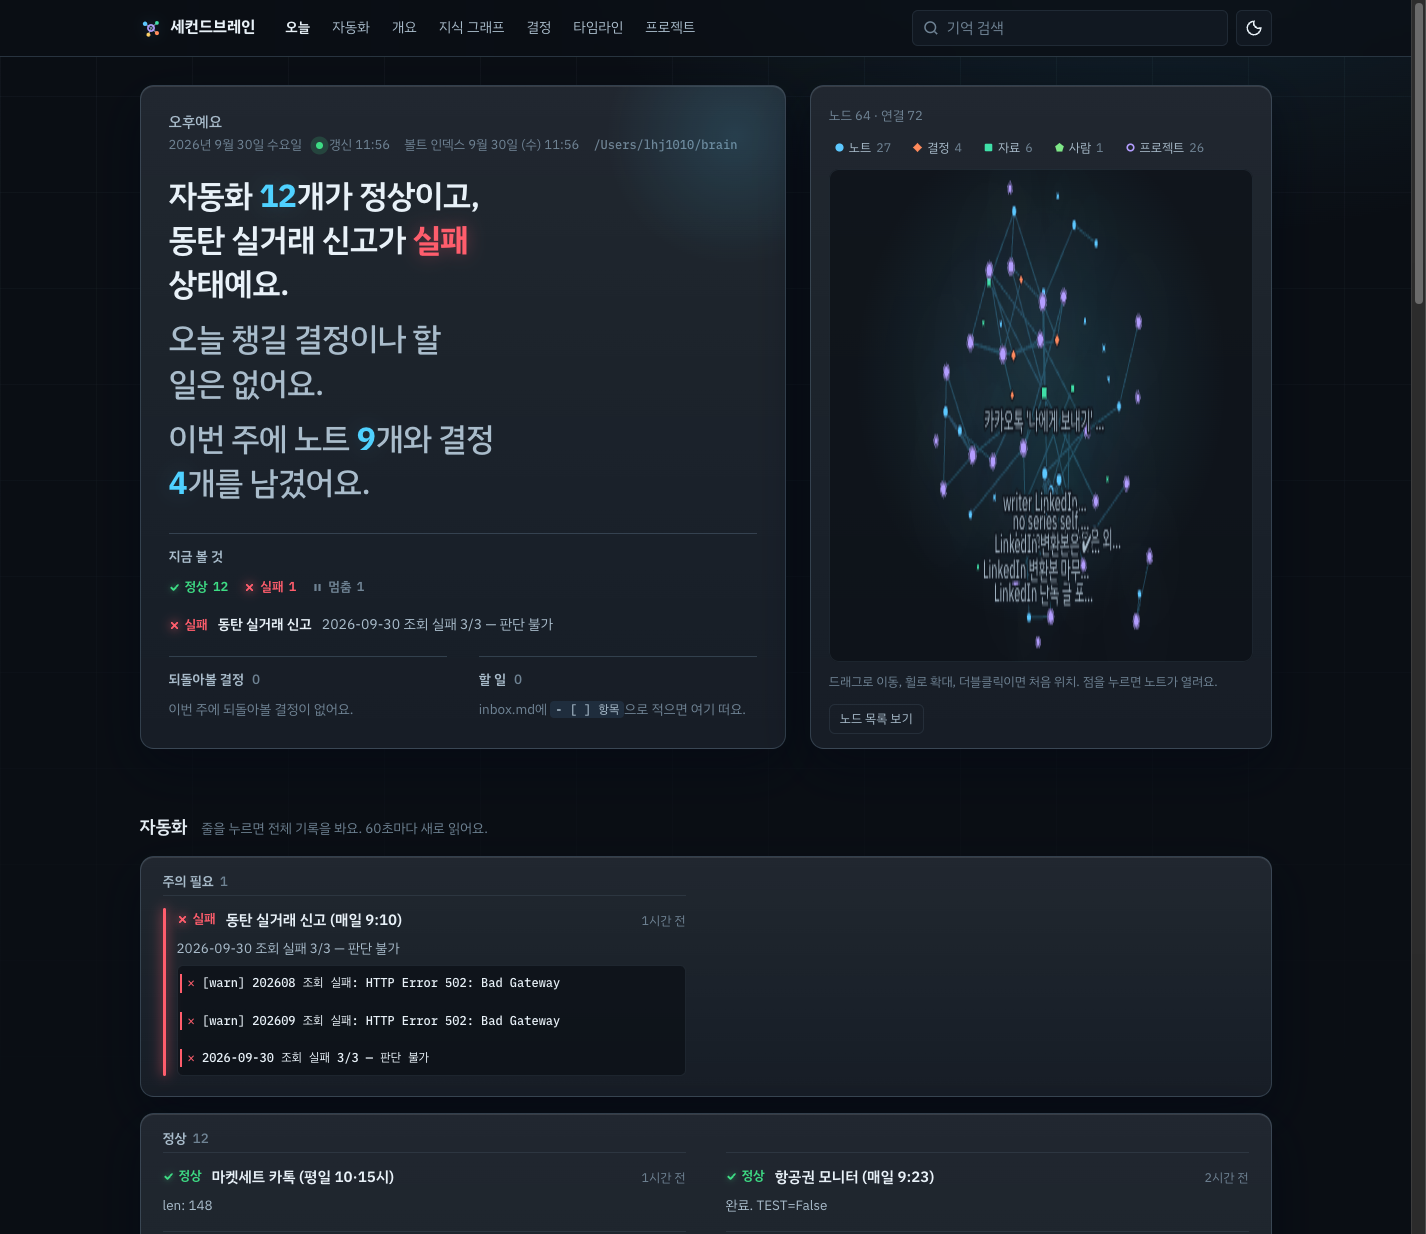
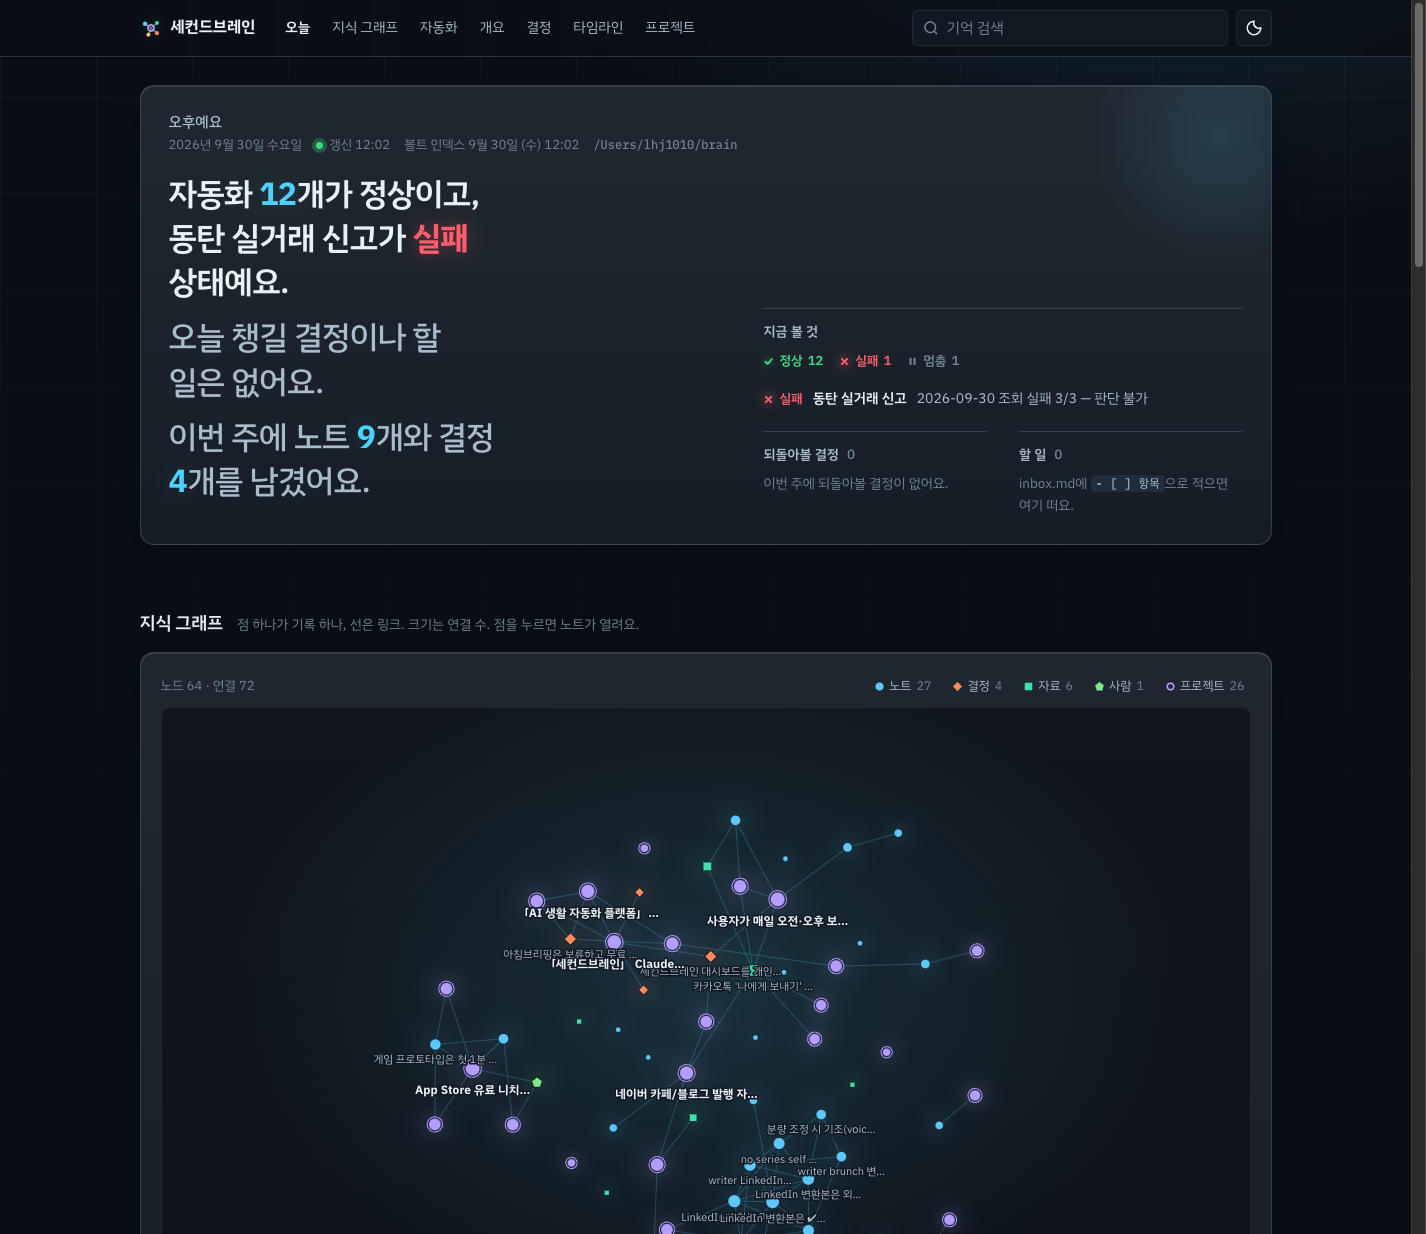
v0.5.1 지식 그래프를 전폭 패널로, 보고 패널 2열, 내비 순서 정렬

diff --git a/web/index.html b/web/index.html
@@ -99,8 +99,8 @@ body::after {
 .glass { background: var(--glass), var(--surface); border: 1px solid var(--rule-strong); border-radius: var(--rp); box-shadow: var(--glass-edge), var(--panel-shadow); backdrop-filter: blur(14px); }
 /* 첫 로드 한 번의 등장 시퀀스: 보고 → 그래프 → 자동화 → 나머지 */
 @keyframes rise { from { opacity: 0; transform: translateY(14px); } to { opacity: 1; transform: none; } }
-html.entering .hero-text, html.entering .hero-graph, html.entering #automation, html.entering #content > .section { animation: rise .7s cubic-bezier(.2, .7, .2, 1) both; }
-html.entering .hero-graph { animation-delay: .10s; } html.entering #automation { animation-delay: .22s; }
+html.entering .hero-text, html.entering .graph-section, html.entering #automation, html.entering #content > .section { animation: rise .7s cubic-bezier(.2, .7, .2, 1) both; }
+html.entering .graph-section { animation-delay: .10s; } html.entering #automation { animation-delay: .22s; }
 html.entering #content > .section:nth-child(1) { animation-delay: .34s; } html.entering #content > .section:nth-child(2) { animation-delay: .42s; }
 html.entering #content > .section:nth-child(3) { animation-delay: .50s; } html.entering #content > .section:nth-child(4) { animation-delay: .58s; }
 html { scroll-behavior: smooth; scroll-padding-top: 72px; }
@@ -160,8 +160,11 @@ h1, h2, h3 { text-wrap: balance; }
 
 /* ───────── 히어로: 비서의 보고 (7) + 살아 있는 지식 그래프 (5) ───────── */
 .main { padding: 28px 24px 96px; min-width: 0; }
-.hero { display: grid; grid-template-columns: minmax(0, 7fr) minmax(0, 5fr); gap: 20px 24px; align-items: stretch; }
-.hero-text { padding: 26px 28px 22px; }
+.hero { display: grid; grid-template-columns: minmax(0, 1fr); }
+.hero-text { padding: 26px 28px 22px; display: grid; grid-template-columns: minmax(0, 1.15fr) minmax(0, 1fr); gap: 8px 44px; align-items: start; }
+.hero-text .header { grid-column: 1 / -1; margin-bottom: 8px; }
+.hero-text .report { margin-bottom: 8px; }
+.hero-text .today-grid { align-self: start; margin-top: 10px; }
 .hero-text.glass { position: relative; overflow: hidden; }
 .hero-text.glass::after { content: ""; position: absolute; right: -80px; top: -80px; width: 260px; height: 260px; border-radius: 50%; background: radial-gradient(circle, var(--accent-soft), transparent 70%); pointer-events: none; }
 .header { margin-bottom: 18px; }
@@ -224,9 +227,9 @@ h1, h2, h3 { text-wrap: balance; }
 .chip[aria-pressed="false"] svg { opacity: .35; }
 .chip .c { color: var(--muted); }
 .chip svg { width: 9px; height: 9px; flex: none; }
-.hero-graph .graph-card { padding: 16px 18px 14px; height: 100%; display: flex; flex-direction: column; }
-.hero-graph .graph-wrap { flex: 1; }
-.graph-wrap { position: relative; height: clamp(340px, 46vh, 480px); border-radius: 10px; background: radial-gradient(ellipse at 50% 42%, var(--accent-soft), transparent 62%), color-mix(in srgb, var(--bg) 70%, transparent); box-shadow: inset 0 0 0 1px var(--rule); overflow: hidden; }
+.graph-section .graph-card { padding: 16px 20px 14px; }
+.graph-section { margin-top: 20px; }
+.graph-wrap { position: relative; height: clamp(440px, 62vh, 680px); border-radius: 10px; background: radial-gradient(ellipse at 50% 42%, var(--accent-soft), transparent 62%), color-mix(in srgb, var(--bg) 70%, transparent); box-shadow: inset 0 0 0 1px var(--rule); overflow: hidden; }
 #graph { display: block; width: 100%; height: 100%; touch-action: none; cursor: grab; border-radius: 10px; }
 #graph.dragging { cursor: grabbing; }
 #graph.hover { cursor: pointer; }
@@ -417,7 +420,7 @@ h1, h2, h3 { text-wrap: balance; }
 
 /* ───────── 반응형 ───────── */
 @media (max-width: 1000px) {
-  .hero { grid-template-columns: minmax(0, 1fr); }
+  .hero-text { grid-template-columns: minmax(0, 1fr); }
   .tiles { grid-template-columns: repeat(2, minmax(0, 1fr)); }
   .board { grid-template-columns: minmax(0, 1fr); gap: 24px; }
   .wgrid, .wgrid.attention { grid-template-columns: minmax(0, 1fr); }
@@ -436,7 +439,7 @@ h1, h2, h3 { text-wrap: balance; }
   .today-grid { grid-template-columns: minmax(0, 1fr); }
   .report { max-width: none; }
   .report p { font-size: 21px; }
-  .graph-wrap { height: 60vh; min-height: 320px; }
+  .graph-wrap { height: 60vh; min-height: 360px; }
   .tiles { grid-template-columns: minmax(0, 1fr); }
   .tile-value { font-size: 32px; }
   .tl-day { grid-template-columns: minmax(0, 1fr); gap: 6px; }
@@ -473,9 +476,9 @@ h1, h2, h3 { text-wrap: balance; }
     <nav class="nav" aria-label="섹션 이동">
       <ul>
       <li><a href="#today-section" class="active"><span class="dot"></span>오늘</a></li>
+      <li><a href="#graph-section"><span class="dot"></span>지식 그래프</a></li>
       <li><a href="#automation"><span class="dot"></span>자동화</a></li>
       <li><a href="#overview"><span class="dot"></span>개요</a></li>
-      <li><a href="#graph-section"><span class="dot"></span>지식 그래프</a></li>
       <li><a href="#decisions"><span class="dot"></span>결정</a></li>
       <li><a href="#timeline"><span class="dot"></span>타임라인</a></li>
       <li><a href="#projects"><span class="dot"></span>프로젝트</a></li>
@@ -507,24 +510,25 @@ h1, h2, h3 { text-wrap: balance; }
       <div class="report" id="report" aria-live="polite"><p class="loading">오늘 보고를 준비하고 있어요.</p></div>
       <div class="today-grid" id="todayGrid"><div class="loading">오늘 불러오는 중</div></div>
     </div>
-    <section class="hero-graph" id="graph-section" aria-labelledby="graph-h">
-      <h2 id="graph-h" class="sr-only">지식 그래프</h2>
-      <div class="graph-card glass">
-        <div class="graph-top">
-          <div class="graph-stats" id="graphStats">그래프 준비 중</div>
-          <div class="chips" id="chips" role="group" aria-label="타입 필터"></div>
-        </div>
-        <div class="graph-wrap" id="graphWrap">
-          <canvas id="graph" tabindex="0" role="img" aria-label="지식 그래프. 점 하나가 기록 하나, 선은 링크. 노드 목록 버튼으로 텍스트 목록을 볼 수 있어요." aria-describedby="graphTip"></canvas>
-          <div class="tooltip" id="graphTip" role="tooltip"></div>
-        </div>
-        <div class="graph-bottom">
-          <span>드래그로 이동, 휠로 확대, 더블클릭이면 처음 위치. 점을 누르면 노트가 열려요.</span>
-          <button class="text-btn" id="listBtn" type="button" aria-expanded="false" aria-controls="nodeList">노드 목록 보기</button>
-        </div>
-        <ul class="node-list" id="nodeList" hidden aria-label="그래프 노드 목록"></ul>
+  </section>
+
+  <section class="section graph-section" id="graph-section" aria-labelledby="graph-h">
+    <div class="section-head"><h2 id="graph-h">지식 그래프</h2><p>점 하나가 기록 하나, 선은 링크. 크기는 연결 수. 점을 누르면 노트가 열려요.</p></div>
+    <div class="graph-card glass">
+      <div class="graph-top">
+        <div class="graph-stats" id="graphStats">그래프 준비 중</div>
+        <div class="chips" id="chips" role="group" aria-label="타입 필터"></div>
       </div>
-    </section>
+      <div class="graph-wrap" id="graphWrap">
+        <canvas id="graph" tabindex="0" role="img" aria-label="지식 그래프. 점 하나가 기록 하나, 선은 링크. 노드 목록 버튼으로 텍스트 목록을 볼 수 있어요." aria-describedby="graphTip"></canvas>
+        <div class="tooltip" id="graphTip" role="tooltip"></div>
+      </div>
+      <div class="graph-bottom">
+        <span>드래그로 이동, 휠로 확대, 더블클릭이면 처음 위치.</span>
+        <button class="text-btn" id="listBtn" type="button" aria-expanded="false" aria-controls="nodeList">노드 목록 보기</button>
+      </div>
+      <ul class="node-list" id="nodeList" hidden aria-label="그래프 노드 목록"></ul>
+    </div>
   </section>
 
   <section class="section" id="automation" aria-labelledby="auto-h">

diff --git a/SPEC.md b/SPEC.md
@@ -129,3 +129,4 @@ Claude와 대화하다 "이거 기억해둬"라고 하면 마크다운 볼트에
 - 발광: 보고 문장의 수치 `<b class="k">`(시안, 실패 낱말은 붉게), 개요 숫자(시안 40px, 카운트업), 실패 행 왼쪽 막대와 실패 아이콘, 그래프 노드(`shadowBlur` 8+연결수×1.5, 흐린 노드는 0), 갱신 시각 앞 라이브 점(2.4s 펄스)
 - 등장 시퀀스: `html.entering`일 때만(탭이 보이고 모션 축소 아님) 보고→그래프→자동화→나머지 순 .7s, 1.6초 뒤 클래스 해제. 백그라운드 탭·캡처에서 첫 프레임에 멈추는 문제 방지
 - 수정: 결정 보드 마크업 닫힘(표현식 안 주석이 닫는 태그를 삼켰음)
+- **v0.5.1**: 사장님 "노드도 한 행을 점유하는 카드로" → 지식 그래프를 히어로 옆 5/12 칸에서 빼 전폭 유리 패널(높이 clamp 440~680px)로. 보고 패널은 좌 보고 문장 / 우 지금 볼 것·결정·할 일 2열. 내비 순서 화면 순서로(오늘→지식 그래프→자동화→개요→결정→타임라인→프로젝트)
